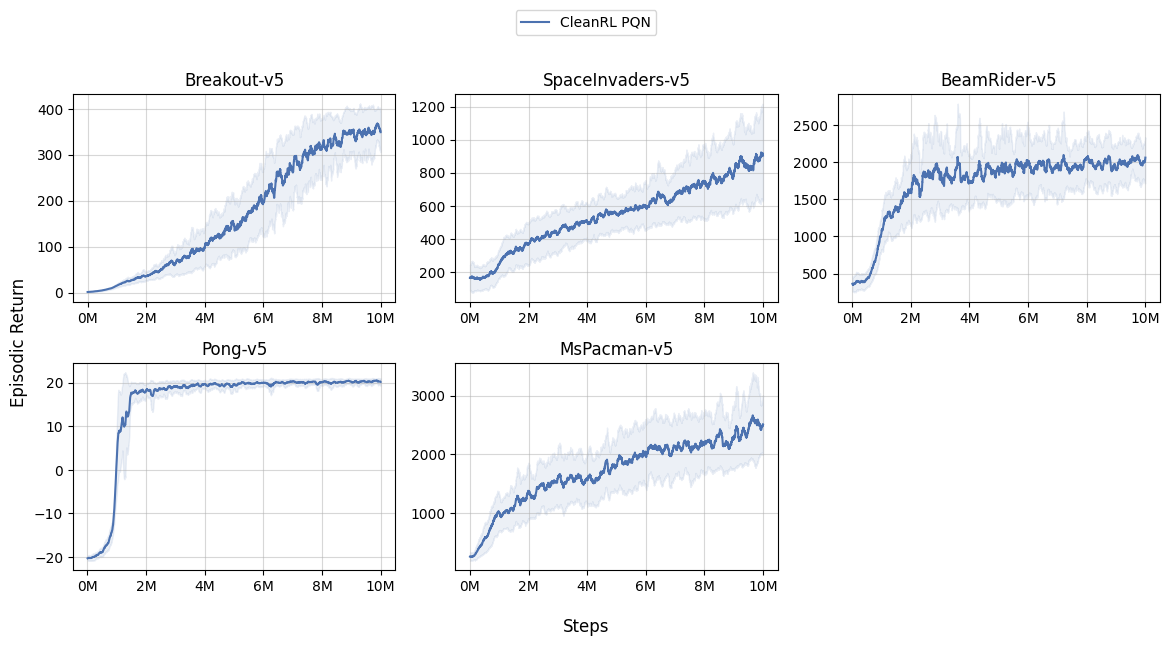
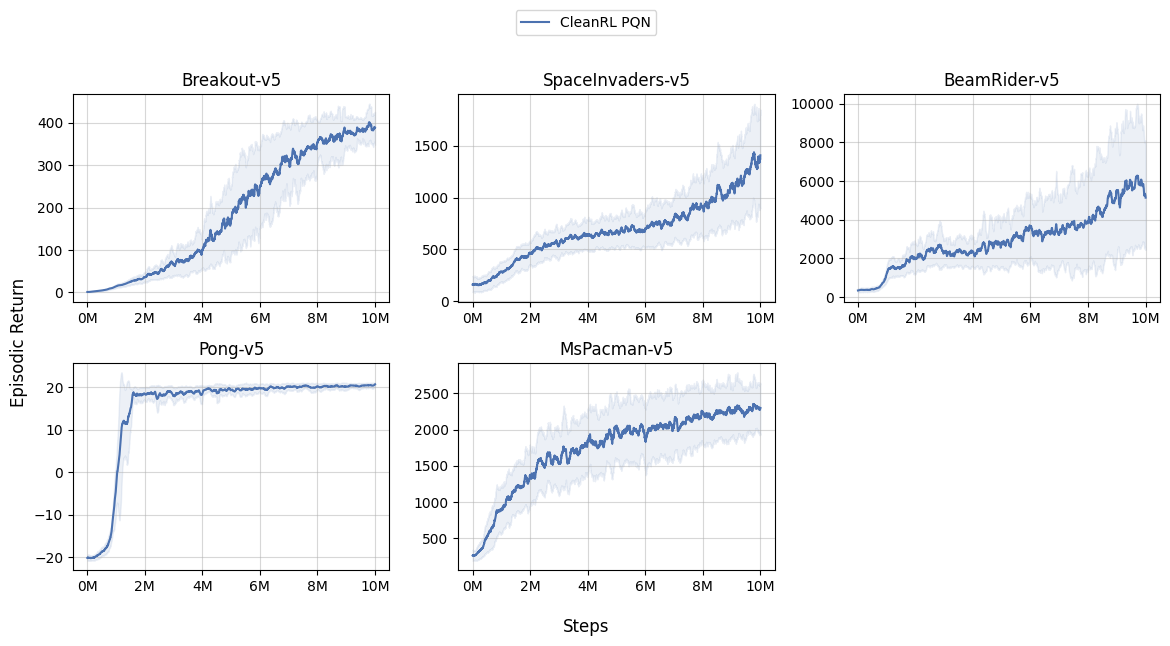
Fix: PQN needs to mask the return computation if next state is done (#494)
* Fix: PQN needs to mask the return computation if next state is done

* ran regression check and updated docs

* fix poetry command in benchmark script

diff --git a/cleanrl/pqn.py b/cleanrl/pqn.py
@@ -212,8 +212,9 @@ if __name__ == "__main__":
                 else:
                     nextnonterminal = 1.0 - dones[t + 1]
                     next_value = values[t + 1]
-                    returns[t] = rewards[t] + args.gamma * (
-                        args.q_lambda * returns[t + 1] + (1 - args.q_lambda) * next_value * nextnonterminal
+                    returns[t] = (
+                        rewards[t]
+                        + args.gamma * (args.q_lambda * returns[t + 1] + (1 - args.q_lambda) * next_value) * nextnonterminal
                     )
 
         # flatten the batch

diff --git a/cleanrl/pqn_atari_envpool.py b/cleanrl/pqn_atari_envpool.py
@@ -255,8 +255,9 @@ if __name__ == "__main__":
                 else:
                     nextnonterminal = 1.0 - dones[t + 1]
                     next_value = values[t + 1]
-                    returns[t] = rewards[t] + args.gamma * (
-                        args.q_lambda * returns[t + 1] + (1 - args.q_lambda) * next_value * nextnonterminal
+                    returns[t] = (
+                        rewards[t]
+                        + args.gamma * (args.q_lambda * returns[t + 1] + (1 - args.q_lambda) * next_value) * nextnonterminal
                     )
 
         # flatten the batch

diff --git a/cleanrl/pqn_atari_envpool_lstm.py b/cleanrl/pqn_atari_envpool_lstm.py
@@ -290,8 +290,9 @@ if __name__ == "__main__":
                 else:
                     nextnonterminal = 1.0 - dones[t + 1]
                     next_value = values[t + 1]
-                    returns[t] = rewards[t] + args.gamma * (
-                        args.q_lambda * returns[t + 1] + (1 - args.q_lambda) * next_value * nextnonterminal
+                    returns[t] = (
+                        rewards[t]
+                        + args.gamma * (args.q_lambda * returns[t + 1] + (1 - args.q_lambda) * next_value) * nextnonterminal
                     )
 
         # flatten the batch

diff --git a/docs/rl-algorithms/pqn.md b/docs/rl-algorithms/pqn.md
@@ -81,19 +81,19 @@ To run benchmark experiments, see :material-github: [benchmark/pqn.sh](https://g
 
 Episode Rewards:
 
-| Environment      | CleanRL PQN       |
-|------------------|-------------------|
-| CartPole-v1      | 408.14 ± 128.42   |
-| Acrobot-v1       | -93.71 ± 2.94     |
-| MountainCar-v0   | -200.00 ± 0.00    |
+|                | CleanRL PQN    |
+|:---------------|:---------------|
+| CartPole-v1    | 495.13 ± 6.89  |
+| Acrobot-v1     | -95.63 ± 5.73  |
+| MountainCar-v0 | -200.00 ± 0.00 |
 
 Runtime:
 
-| Environment      | CleanRL PQN          |
-|------------------|----------------------|
-| CartPole-v1      | 3.619667511995135    |
-| Acrobot-v1       | 4.264845468334595    |
-| MountainCar-v0   | 3.99800178870078     |
+|                |   CleanRL PQN |
+|:---------------|--------------:|
+| CartPole-v1    |      0.833548 |
+| Acrobot-v1     |      1.35797  |
+| MountainCar-v0 |      1.02083  |
 
 Learning curves:
 
@@ -167,23 +167,23 @@ To run benchmark experiments, see :material-github: [benchmark/pqn.sh](https://g
 
 Episode Rewards:
 
-| Environment       | CleanRL PQN        |
-|-------------------|--------------------|
-| Breakout-v5       | 356.93 ± 7.48      |
-| SpaceInvaders-v5  | 900.07 ± 107.95    |
-| BeamRider-v5      | 1987.97 ± 24.47    |
-| Pong-v5           | 20.44 ± 0.11       |
-| MsPacman-v5       | 2437.57 ± 215.01   |
+|                  | CleanRL PQN       |
+|:-----------------|:------------------|
+| Breakout-v5      | 384.85 ± 12.39    |
+| SpaceInvaders-v5 | 1325.20 ± 78.49   |
+| BeamRider-v5     | 5753.03 ± 2394.70 |
+| Pong-v5          | 20.49 ± 0.11      |
+| MsPacman-v5      | 2298.83 ± 128.24  |
 
 Runtime:
 
-| Environment       | CleanRL PQN           |
-|-------------------|-----------------------|
-| Breakout-v5       | 41.27235000576079     |
-| SpaceInvaders-v5  | 42.191246278536035    |
-| BeamRider-v5      | 42.66799268151052     |
-| Pong-v5           | 39.35770012905844     |
-| MsPacman-v5       | 43.22808379473344     |
+|                  |   CleanRL PQN |
+|:-----------------|--------------:|
+| Breakout-v5      |       42.8203 |
+| SpaceInvaders-v5 |       41.2196 |
+| BeamRider-v5     |       43.0951 |
+| Pong-v5          |       40.7316 |
+| MsPacman-v5      |       43.7812 |
 
 
 Learning curves:
@@ -268,22 +268,23 @@ To run benchmark experiments, see :material-github: [benchmark/pqn.sh](https://g
 
 Episode Rewards:
 
-| Environment       | CleanRL PQN        |
-|-------------------|--------------------|
-| Breakout-v5       | 366.47 ± 2.72      |
-| SpaceInvaders-v5  | 681.92 ± 40.15     |
-| BeamRider-v5      | 2050.85 ± 38.58    |
-| MsPacman-v5       | 1815.20 ± 183.03   |
+|                  | CleanRL PQN       |
+|:-----------------|:------------------|
+| Breakout-v5      | 400.35 ± 9.08     |
+| SpaceInvaders-v5 | 813.47 ± 58.14    |
+| BeamRider-v5     | 11161.43 ± 579.88 |
+| Pong-v5          | 20.43 ± 0.11      |
+| MsPacman-v5      | 1649.63 ± 135.80  |
 
 Runtime:
 
-| Environment       | CleanRL PQN           |
-|-------------------|-----------------------|
-| Breakout-v5       | 170.30230232607076    |
-| SpaceInvaders-v5  | 168.45747969698144    |
-| BeamRider-v5      | 172.11561139317593    |
-| MsPacman-v5       | 171.66131707108408    |
-
+|                  |   CleanRL PQN |
+|:-----------------|--------------:|
+| Breakout-v5      |       178.144 |
+| SpaceInvaders-v5 |       209.603 |
+| BeamRider-v5     |       174.153 |
+| Pong-v5          |       160.462 |
+| MsPacman-v5      |       162.222 |
 Learning curves:
 
 ``` title="benchmark/pqn_plot.sh" linenums="1"
